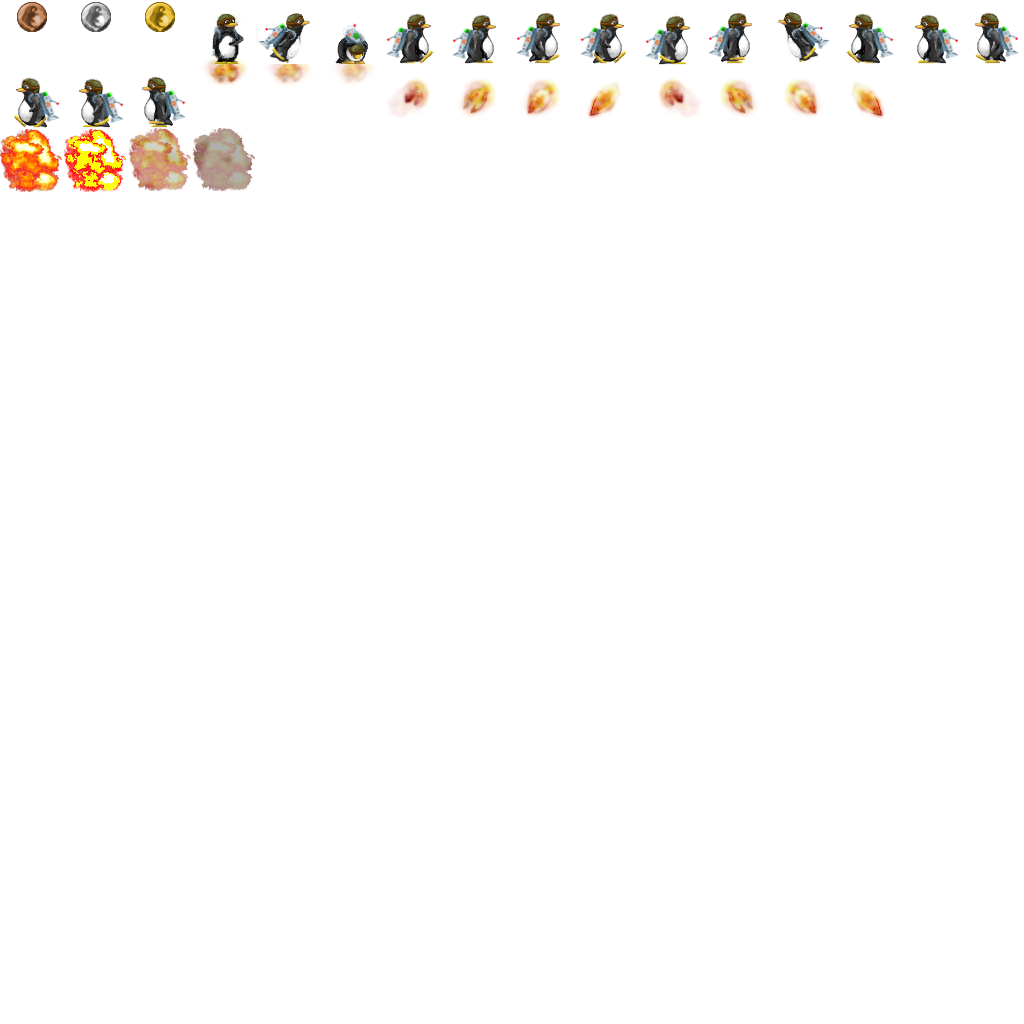
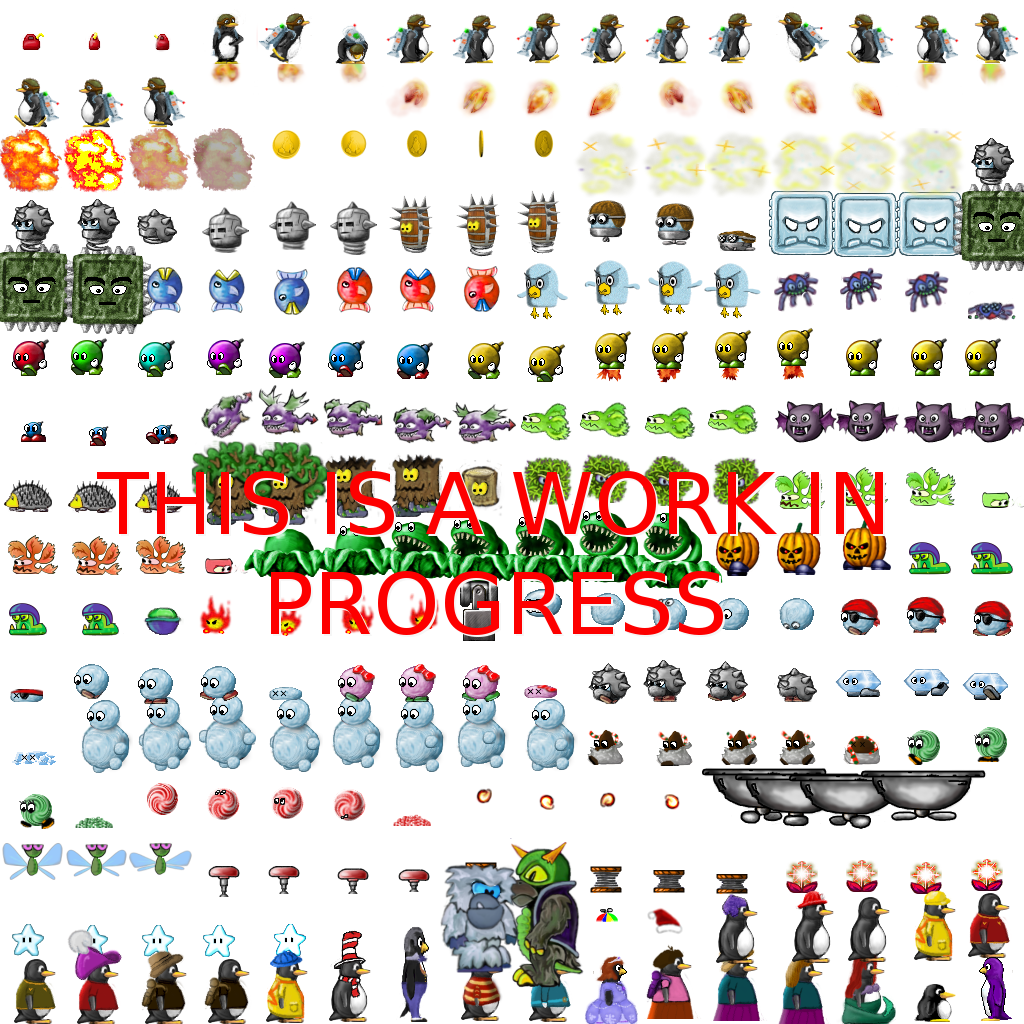
- Improved the rocket exhaust effect while hovering. - Add all the entities to the sprite sheet (yet to be sized and organized).

diff --git a/src/game.js b/src/game.js
@@ -54,7 +54,10 @@ RocketTux.Game.prototype = {
     this.flames = this.game.add.sprite(this.player.body.x, this.player.body.y, 'entities');
     this.flames.animations.add('flames-right', [22,23,24,25], 12, true);
     this.flames.animations.add('flames-left', [26,27,28,29], 12, true);
-    this.flames.animations.add('idle', [19,20,21], 8, true);
+    this.flames.animations.add('idle', [19,20,21,30,31], 8, true);
+    
+    // Put flames behind player
+    this.player.bringToTop();
     
     // Input
     this.cursors = this.game.input.keyboard.createCursorKeys();
@@ -150,8 +153,8 @@ RocketTux.Game.prototype = {
         this.player.animations.play('jump-right');
         this.rocketOn = 'right';
     } else if (stateIs == 'idle'){
-        this.flames.x = this.player.body.x - 10;
-        this.flames.y = this.player.body.y + 44;
+        this.flames.x = this.player.body.x - 12;
+        this.flames.y = this.player.body.y + 37;
         this.flames.animations.play('idle');
         this.rocketOn = 'idle';
     } else if (stateIs == 'off'){
